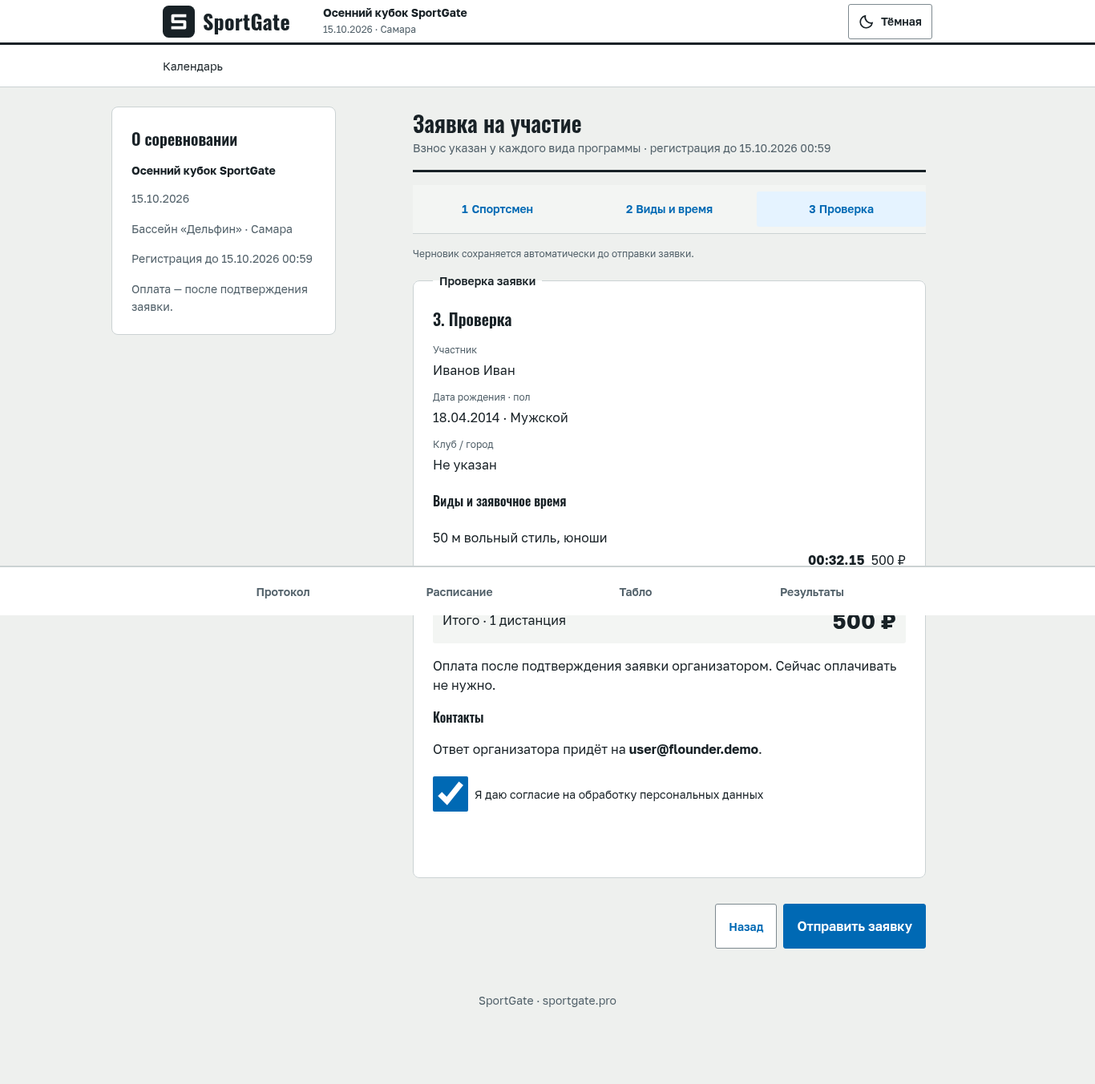
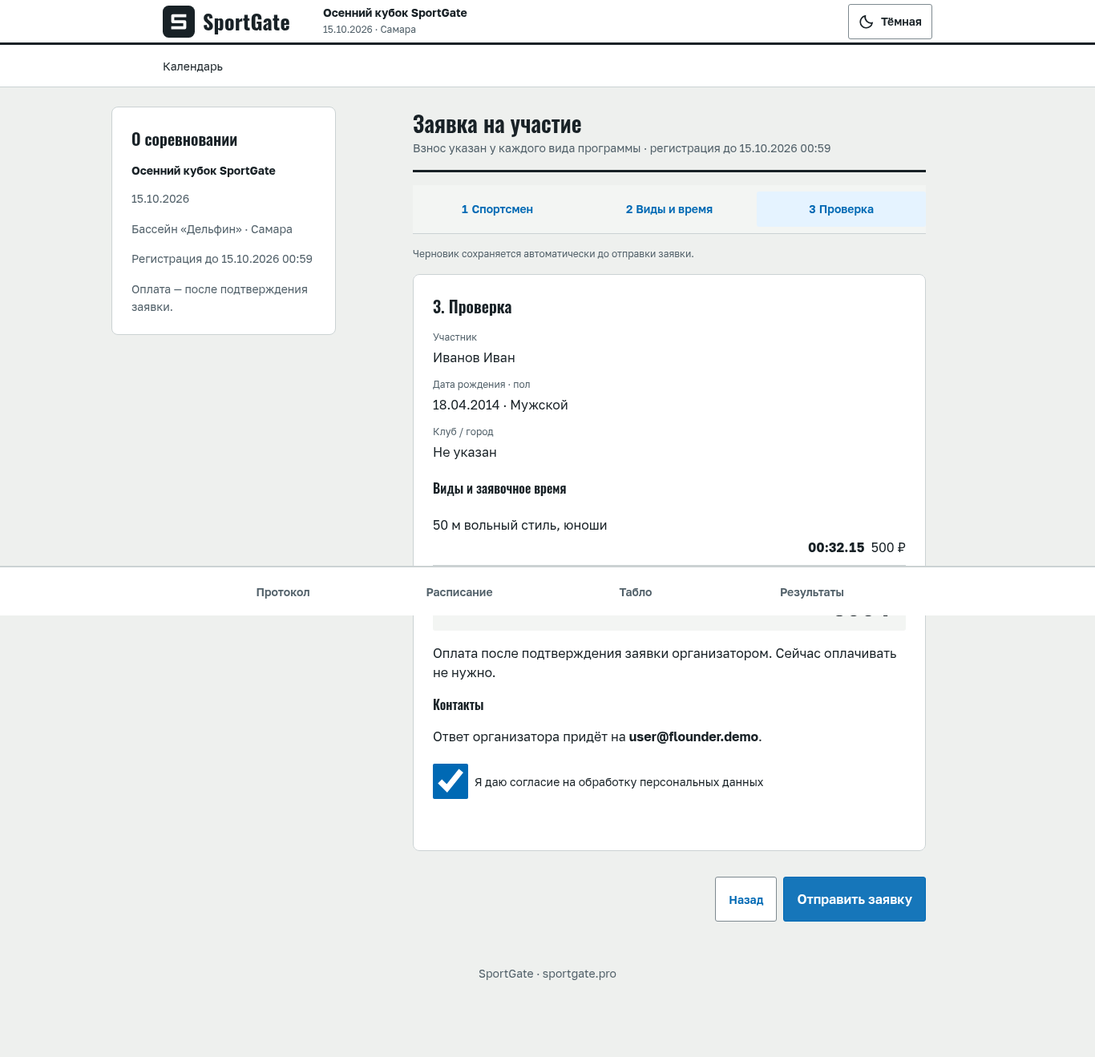
fix(public): address registration review and update submission scenarios

diff --git a/sport-platform/frontend/src/features/public/RegistrationPage.tsx b/sport-platform/frontend/src/features/public/RegistrationPage.tsx
@@ -26,6 +26,7 @@ const fieldNames: Record<string, string> = {
   gender: 'Пол', club: 'Клуб', disciplines: 'Виды программы', consent: 'Согласие',
 }
 const money = (value: number) => `${new Intl.NumberFormat('ru-RU').format(value)} ₽`
+const fee = (value: number) => value === 0 ? 'Бесплатно' : money(value)
 
 function isDisciplineFull(item: RegistrationDiscipline, profile: RegistrationProfile) {
   if (item.maxParticipants != null && (item.participantsCount ?? 0) >= item.maxParticipants) return true
@@ -85,6 +86,10 @@ function RegistrationEditor() {
   const currentErrors = state.data ? validateRegistration(profile, selected, consent, state.data, today) : {}
   const firstInvalid = Object.keys(currentErrors)[0]
   const total = disciplines.reduce((sum, item) => sum + item.entryFee, 0)
+  const metaParts = [
+    state.data ? (state.data.disciplines.some(item => item.entryFee > 0) ? 'Взнос указан у каждого вида программы' : 'Участие бесплатно') : '',
+    event.registrationCloseAt ? `регистрация до ${date(event.registrationCloseAt, event.venue?.timezone)} ${time(event.registrationCloseAt, event.venue?.timezone)}` : '',
+  ].filter(Boolean)
   const eventFull = state.data?.maxParticipants != null && (state.data.participantsCount ?? 0) >= state.data.maxParticipants
   const waitlisted = eventFull || disciplines.some(item => isDisciplineFull(item, profile))
   const back = <Button as={Link} variant="ghost" to={`/e/${encodeURIComponent(event.publicSlug)}`}>К соревнованию</Button>
@@ -92,7 +97,7 @@ function RegistrationEditor() {
   useEffect(() => {
     if (!draftKey || success) return
     // oxlint-disable-next-line react/set-state-in-effect -- Reflect external storage availability in the UI.
-    try { localStorage.setItem(draftKey, JSON.stringify({ ...draft, version: 1 })); setStorageError(false) }
+    try { localStorage.setItem(draftKey, JSON.stringify({ ...draft, version: 1, savedAt: Date.now() })); setStorageError(false) }
     catch { setStorageError(true) }
   }, [draft, draftKey, success])
 
@@ -159,8 +164,8 @@ function RegistrationEditor() {
   async function submit(submitEvent: FormEvent<HTMLFormElement>) {
     submitEvent.preventDefault()
     if (submitting || !state.data || !auth.session) return
-    if (Object.keys(currentErrors).length) { showValidation(currentErrors); return }
     if (step < 2) { next(); return }
+    if (Object.keys(currentErrors).length) { showValidation(currentErrors); return }
     setSubmitting(true)
     setCapacityError(false)
     setErrors({})
@@ -220,10 +225,7 @@ function RegistrationEditor() {
       <p>Оплата — после подтверждения заявки.</p>
     </aside>
     <section className={styles.card}>
-      <PageHeader title="Заявка на участие" meta={<>
-        {state.data && (state.data.disciplines.some(item => item.entryFee > 0) ? 'Взнос указан у каждого вида программы' : 'Участие бесплатно')}
-        {event.registrationCloseAt && <> · регистрация до {date(event.registrationCloseAt, event.venue?.timezone)} {time(event.registrationCloseAt, event.venue?.timezone)}</>}
-      </>} />
+      <PageHeader title="Заявка на участие" meta={metaParts.length ? metaParts.join(' · ') : undefined} />
       {state.loading && !state.data && <div role="status" className={styles.loading}>
         <p>Загружаем форму заявки…</p>{Array.from({ length: 6 }, (_, index) => <div key={index} className={styles.skeleton} aria-hidden="true" />)}
       </div>}
@@ -247,7 +249,7 @@ function RegistrationEditor() {
         {errorSummary}
         {eventFull && <Notice tone="warning"><span role="status">Мест нет, запись в лист ожидания. Организатор сообщит, когда освободится место.</span></Notice>}
         <fieldset hidden={step !== 0} disabled={submitting || profileLoading} className="fl-fieldset">
-          <legend>Участник</legend>
+          <legend className="fl-sr-only">Участник</legend>
           <h2 id="registration-step-0" tabIndex={-1}>1. Спортсмен</h2>
           <Button loading={profileLoading} title={profileLoading ? 'Загружаем данные спортсмена' : undefined} onClick={() => void fillOwnProfile()}>Это я</Button>
           <div className={styles.pair}>
@@ -276,7 +278,7 @@ function RegistrationEditor() {
           </div>
         </fieldset>
         <fieldset hidden={step !== 1} disabled={submitting || !profileReady} className="fl-fieldset" aria-describedby="registration-disciplines-hint">
-          <legend>Виды (до трёх)</legend>
+          <legend className="fl-sr-only">Виды (до трёх)</legend>
           <h2 id="registration-step-1" tabIndex={-1}>2. Виды и время</h2>
           <div id="registration-disciplines-hint">{profileReady ? <p>Выберите до трёх видов программы. Заявочное время — мм:сс.сс.</p> : <Notice tone="info">Укажите пол и дату рождения, чтобы увидеть доступные виды</Notice>}</div>
           <Button variant="ghost" aria-pressed={showAll} onClick={() => setShowAll(value => !value)}>Показать все виды</Button>
@@ -293,7 +295,7 @@ function RegistrationEditor() {
                 title={!allowed && !checked ? 'Не подходит по полу или году рождения' : undefined}
                 onClick={() => setDraft(previous => { const next = { ...previous.selected }; if (checked) delete next[item.id]; else next[item.id] = ''; return { ...previous, selected: next } })}>
                 <span><strong>{item.name}</strong> · {groupNames || 'Все возрастные группы'}</span>
-                <span className={styles.disciplineMeta}>{item.entryFee === 0 ? 'Бесплатно' : money(item.entryFee)} · {checked ? 'Выбрано' : 'Выбрать'}</span>
+                <span className={styles.disciplineMeta}>{fee(item.entryFee)} · {checked ? 'Выбрано' : 'Выбрать'}</span>
               </Button>
               {profileReady && isDisciplineFull(item, profile) && <StatusBadge kind="registration" code="WAITLISTED" />}
               {!allowed && <small>{profileReady ? 'Не подходит по полу или году рождения' : 'Сначала укажите пол и дату рождения'}</small>}
@@ -313,7 +315,7 @@ function RegistrationEditor() {
           {profileReady && !state.data.disciplines.some(item => eligible(item, profile)) && <EmptyState title="Подходящих видов программы нет" action={<Button onClick={() => goTo(0)}>Проверить данные спортсмена</Button>}><p>Проверьте пол и дату рождения или уточните программу у организатора.</p></EmptyState>}
         </fieldset>
         <fieldset hidden={step !== 2} disabled={submitting} className="fl-fieldset">
-          <legend>Проверка заявки</legend>
+          <legend className="fl-sr-only">Проверка заявки</legend>
           <h2 id="registration-step-2" tabIndex={-1}>3. Проверка</h2>
           <dl className={styles.review}>
             <dt>Участник</dt><dd>{[profile.lastName, profile.firstName, profile.middleName].filter(Boolean).join(' ') || 'Не указан'}</dd>
@@ -321,8 +323,8 @@ function RegistrationEditor() {
             <dt>Клуб / город</dt><dd>{profile.club || 'Не указан'}</dd>
           </dl>
           <h3>Виды и заявочное время</h3>
-          {disciplines.length ? <ul className={styles.reviewList}>{disciplines.map(item => <li key={item.id}><span>{item.name}</span><strong className={styles.numeric}>{selected[item.id] || 'Без времени (NT)'}</strong><span className={styles.numeric}>{money(item.entryFee)}</span></li>)}</ul> : <Notice tone="warning">Выберите хотя бы один вид программы на втором шаге.</Notice>}
-          <div className={`${styles.total} fl-summary-cell`}><span>Итого · {disciplines.length} {disciplines.length === 1 ? 'дистанция' : 'дистанции'}</span><strong className={styles.numeric}>{total ? money(total) : 'Бесплатно'}</strong></div>
+          {disciplines.length ? <ul className={styles.reviewList}>{disciplines.map(item => <li key={item.id}><span>{item.name}</span><strong className={styles.numeric}>{selected[item.id] || 'Без времени (NT)'}</strong><span className={styles.numeric}>{fee(item.entryFee)}</span></li>)}</ul> : <Notice tone="warning">Выберите хотя бы один вид программы на втором шаге.</Notice>}
+          <div className={`${styles.total} fl-summary-cell`}><span>Итого · {disciplines.length} {disciplines.length === 1 ? 'дистанция' : 'дистанции'}</span><strong className={styles.numeric}>{fee(total)}</strong></div>
           {total > 0 && <p>Оплата после подтверждения заявки организатором. Сейчас оплачивать не нужно.</p>}
           {waitlisted && <Notice tone="warning">Мест нет, заявка попадёт в лист ожидания. Оплата будет доступна после подтверждения организатором.</Notice>}
           <h3>Контакты</h3><p>Ответ организатора придёт на <strong>{email || 'email вашего аккаунта'}</strong>.</p>
@@ -332,8 +334,8 @@ function RegistrationEditor() {
         <div className={styles.sticky}>
           <div className={styles.actions}>
             {step > 0 && <Button disabled={submitting} title={submitting ? 'Заявка отправляется' : undefined} onClick={() => goTo(step - 1)}>Назад</Button>}
-            {step < 2 ? <Button variant="primary" size="lg" onClick={next}>Далее: {stepNames[step + 1]}</Button>
-              : <Button variant="primary" size="lg" type="submit" loading={submitting} disabled={!!firstInvalid}
+            {step < 2 ? <Button key="next" variant="primary" size="lg" onClick={next}>Далее: {stepNames[step + 1]}</Button>
+              : <Button key="submit" variant="primary" size="lg" type="submit" loading={submitting} disabled={!!firstInvalid}
                 title={firstInvalid ? currentErrors[firstInvalid] : submitting ? 'Заявка отправляется' : undefined} aria-describedby={firstInvalid ? 'registration-disabled-reason' : undefined}>Отправить заявку</Button>}
           </div>
           {step === 2 && firstInvalid && <small id="registration-disabled-reason">{currentErrors[firstInvalid]}</small>}

diff --git a/sport-platform/frontend/src/features/public/RegistrationPage.test.tsx b/sport-platform/frontend/src/features/public/RegistrationPage.test.tsx
@@ -1,16 +1,18 @@
-import { configure, fireEvent, render, screen, waitFor } from '@testing-library/react'
+import { configure, fireEvent, render, screen, waitFor, within } from '@testing-library/react'
 import { MemoryRouter } from 'react-router'
 import { afterAll, beforeEach, describe, expect, it, vi } from 'vitest'
 import { PublicRegistrationPage } from './RegistrationPage'
 import { publicApi, PublicApiError } from '../../api/public.api'
 import type { RegistrationForm } from './public.types'
+import { emptyRegistrationDraft, readRegistrationDraft } from './registrationFields'
 
 // Multi-step interactions also run on shared CI workers.
 vi.setConfig({ testTimeout: 30_000 })
 configure({ asyncUtilTimeout: 10_000 })
 afterAll(() => configure({ asyncUtilTimeout: 1_000 }))
 
-const { form, auth, dataState } = vi.hoisted(() => ({
+const { form, auth, dataState, eventData } = vi.hoisted(() => ({
+  eventData: { publicSlug: 'qa03', registrationOpen: true, registrationCloseAt: null as string | null },
   auth: { userId: 'test-user', isAuthenticated: true, isParticipant: true, session: { accessToken: 'test-token' } },
   dataState: { loading: false, error: undefined as string | undefined, errorStatus: undefined as number | undefined },
   form: {
@@ -26,7 +28,7 @@ vi.mock('../../app/providers/AuthProvider', () => ({
 }))
 vi.mock('./publicContext', async (importOriginal) => ({
   ...await importOriginal<typeof import('./publicContext')>(),
-  usePublicEvent: () => ({ publicSlug: 'qa03', registrationOpen: true }),
+  usePublicEvent: () => eventData,
 }))
 vi.mock('./usePublicData', () => ({ usePublicData: () => ({ data: dataState.loading || dataState.error ? undefined : form, ...dataState, retry: vi.fn() }) }))
 
@@ -48,6 +50,7 @@ function setup(count = 1, fillTimes = true) {
 describe('QA03 public registration submission', () => {
   beforeEach(() => {
     localStorage.clear()
+    eventData.registrationCloseAt = null
     auth.isAuthenticated = true
     auth.isParticipant = true
     dataState.loading = false
@@ -135,6 +138,7 @@ describe('QA03 public registration submission', () => {
 describe('D04-2g registration wizard', () => {
   beforeEach(() => {
     localStorage.clear()
+    eventData.registrationCloseAt = null
     auth.isAuthenticated = true
     auth.isParticipant = true
     dataState.loading = false
@@ -154,6 +158,42 @@ describe('D04-2g registration wizard', () => {
     expect(screen.getByLabelText('Фамилия')).toHaveFocus()
     expect(screen.getByLabelText('Фамилия')).toHaveAttribute('aria-invalid', 'true')
     expect(publicApi.register).not.toHaveBeenCalled()
+  })
+
+  it('validates only the current step when the form is submitted with Enter', () => {
+    const { container } = render(<MemoryRouter><PublicRegistrationPage /></MemoryRouter>)
+    fireEvent.change(screen.getByLabelText('Фамилия'), { target: { value: 'Иванов' } })
+    fireEvent.change(screen.getByLabelText('Имя'), { target: { value: 'Иван' } })
+    fireEvent.change(screen.getByLabelText('Дата рождения'), { target: { value: '2014-04-18' } })
+    fireEvent.change(screen.getByLabelText('Пол'), { target: { value: 'M' } })
+    fireEvent.submit(container.querySelector('form')!)
+    expect(screen.getByRole('heading', { name: '2. Виды и время' })).toBeVisible()
+    expect(screen.queryByRole('alert')).not.toBeInTheDocument()
+    fireEvent.submit(container.querySelector('form')!)
+    expect(screen.getByRole('alert')).toHaveTextContent('Выберите хотя бы один вид программы.')
+    expect(screen.getByRole('alert')).not.toHaveTextContent('Необходимо согласие')
+    expect(publicApi.register).not.toHaveBeenCalled()
+  })
+
+  it('does not render empty metadata or a leading separator before the deadline', () => {
+    dataState.loading = true
+    const { container, rerender } = render(<MemoryRouter><PublicRegistrationPage /></MemoryRouter>)
+    expect(container.querySelector('.fl-meta')).not.toBeInTheDocument()
+    eventData.registrationCloseAt = '2026-10-31T12:00:00Z'
+    rerender(<MemoryRouter><PublicRegistrationPage /></MemoryRouter>)
+    expect(container.querySelector('.fl-meta')).toHaveTextContent(/^регистрация до /)
+    expect(container.querySelector('.fl-meta')).not.toHaveTextContent('·')
+    dataState.loading = false
+    rerender(<MemoryRouter><PublicRegistrationPage /></MemoryRouter>)
+    expect(container.querySelector('.fl-meta')).toHaveTextContent(/^Взнос указан у каждого вида программы · регистрация до /)
+  })
+
+  it('labels a zero fee as free in both the selected item and total', () => {
+    form.disciplines.forEach(item => { item.entryFee = 0 })
+    setup()
+    const review = within(screen.getByRole('group', { name: 'Проверка заявки' }))
+    expect(review.queryByText('0 ₽')).not.toBeInTheDocument()
+    expect(review.getAllByText('Бесплатно')).toHaveLength(2)
   })
 
   it('keeps the selected card and time when going back and restores the step after remount', () => {
@@ -210,6 +250,18 @@ describe('D04-2g registration wizard', () => {
     expect(screen.queryByRole('heading', { name: 'Заявка отправлена' })).not.toBeInTheDocument()
   })
 
+  it('requires an explicit send after returning to review with consent already checked', async () => {
+    setup()
+    fireEvent.click(screen.getByRole('button', { name: 'Назад' }))
+    fireEvent.click(screen.getByRole('button', { name: 'Далее: Проверка' }))
+    expect(screen.getByRole('heading', { name: '3. Проверка' })).toBeVisible()
+    expect(screen.getByLabelText('Я даю согласие на обработку персональных данных')).toBeChecked()
+    expect(publicApi.register).not.toHaveBeenCalled()
+    fireEvent.click(screen.getByRole('button', { name: 'Отправить заявку' }))
+    await waitFor(() => expect(publicApi.register).toHaveBeenCalledTimes(1))
+    await screen.findByText('Заявка отправлена')
+  })
+
   it('prevents a second request while submission is pending', async () => {
     let resolve!: (value: unknown) => void
     vi.mocked(publicApi.register).mockImplementation(() => new Promise(done => { resolve = done }))
@@ -246,5 +298,29 @@ describe('D04-2g registration wizard', () => {
     render(<MemoryRouter><PublicRegistrationPage /></MemoryRouter>)
     expect(screen.getByRole('link', { name: 'Войти' })).toHaveAttribute('href', '/login?next=%2Fe%2Fqa03%2Fregister')
     expect(screen.queryByLabelText('Фамилия')).not.toBeInTheDocument()
+  })
+})
+
+
+describe('D04-2g draft lifetime', () => {
+  const key = 'sportgate.registration.qa03.test-user'
+  const now = Date.UTC(2026, 9, 24, 12)
+  const week = 7 * 24 * 60 * 60 * 1000
+
+  beforeEach(() => {
+    localStorage.clear()
+    vi.spyOn(Date, 'now').mockReturnValue(now)
+  })
+
+  it.each([undefined, now - week - 1])('discards a draft with missing or expired savedAt (%s)', (savedAt) => {
+    localStorage.setItem(key, JSON.stringify({ ...emptyRegistrationDraft(), version: 1, savedAt,
+      profile: { ...emptyRegistrationDraft().profile, lastName: 'Иванова' }, step: 2 }))
+    expect(readRegistrationDraft(key)).toEqual(emptyRegistrationDraft())
+  })
+
+  it('restores a draft up to and including the seven-day boundary', () => {
+    const draft = { ...emptyRegistrationDraft(), profile: { ...emptyRegistrationDraft().profile, lastName: 'Иванова' }, step: 2 }
+    localStorage.setItem(key, JSON.stringify({ ...draft, version: 1, savedAt: now - week }))
+    expect(readRegistrationDraft(key)).toEqual(draft)
   })
 })

diff --git a/sport-platform/frontend/src/features/public/RegistrationPage.module.css b/sport-platform/frontend/src/features/public/RegistrationPage.module.css
@@ -12,19 +12,19 @@
 .form :is(input, select, button) { scroll-margin-block-start: calc(var(--header-h) + var(--space-4)); scroll-margin-block-end: calc(var(--control-h-lg) + var(--control-h) + var(--space-12)); }
 .form input[type=date] { display: block; max-width: 100%; }
 .form :global(.fl-field) { gap: var(--space-2); align-content: start; }
-.form .fieldError { min-height: calc(var(--text-xs) * var(--line-height-body) * 2); color: var(--color-danger); font-size: var(--text-xs); line-height: var(--line-height-body); font-weight: 400; }
+.form .fieldError { min-height: calc(var(--text-xs) * var(--line-height-body)); color: var(--color-danger); font-size: var(--text-xs); line-height: var(--line-height-body); font-weight: 400; }
 .pair { display: grid; gap: var(--space-4); min-width: 0; }
 .optional, .draft, .discipline small, .sticky small { color: var(--color-text-muted); font-size: var(--text-xs); font-weight: 400; }
 .form .wizard { display: grid; grid-template-columns: repeat(3, minmax(0, 1fr)); gap: var(--space-1); padding: var(--space-2) 0; border-bottom: 1px solid var(--border-subtle); }
 .wizard li { min-width: 0; }
-.wizard :global(.fl-btn) { width: 100%; min-height: var(--control-h); padding: var(--space-2) var(--space-1); white-space: normal; text-align: left; font-size: var(--text-xs); }
+.wizard :global(.fl-btn) { width: 100%; min-height: var(--control-h); padding: var(--space-2) var(--space-1); white-space: normal; text-align: left; font-size: var(--text-sm); }
 .wizard :global(.fl-btn-label) { display: flex; align-items: center; gap: var(--space-1); }
 .wizard [aria-current] :global(.fl-btn) { background: var(--surface-3); color: var(--color-primary); }
 .stepNumber { font-variant-numeric: var(--numeric-variant); }
 .discipline { display: grid; gap: var(--space-2); padding: var(--space-3); border: 1px solid var(--border-subtle); border-radius: var(--radius-md); min-width: 0; }
 .discipline[data-selected=true] { border-color: var(--color-primary); background: var(--surface-3); }
 .discipline .disciplineChoice { width: 100%; min-width: 0; min-height: var(--control-h-lg); padding: var(--space-2); text-align: left; white-space: normal; color: var(--color-text); }
-.disciplineChoice :global(.fl-btn-label) { display: grid; gap: var(--space-2); width: 100%; }
+.disciplineChoice :global(.fl-btn-label) { text-align: left; justify-items: start; display: grid; gap: var(--space-2); width: 100%; }
 .disciplineMeta { display: block; font-size: var(--text-sm); font-weight: 400; font-variant-numeric: var(--numeric-variant); }
 .seed { border-top: 1px solid var(--border-subtle); padding-block-start: var(--space-4); }
 .numeric { font-variant-numeric: var(--numeric-variant); text-align: right; }

diff --git a/sport-platform/frontend/e2e/public.spec.ts b/sport-platform/frontend/e2e/public.spec.ts
@@ -141,16 +141,21 @@ test('anonymous registration returns after login; authenticated form validates p
   await page.getByLabel('Имя', { exact: true }).fill('Иван')
   await page.getByLabel('Дата рождения').fill('2012-06-15')
   await page.getByLabel('Пол', { exact: true }).selectOption('M')
-  await page
-    .getByRole('checkbox', { name: /50 м вольный стиль, юноши/ })
-    .check()
-  await page.getByLabel('Заявочное время').fill('')
-  await page.getByLabel('Заявочное время').pressSequentially('32.15')
-  await expect(page.getByLabel('Заявочное время')).toHaveValue('00:32.15')
+  await page.getByRole('button', { name: 'Далее: Виды и время', exact: true }).click()
+  const choice = page.getByRole('button', { name: /50 м вольный стиль, юноши/ })
+  await choice.click()
+  await expect(choice).toHaveAttribute('aria-pressed', 'true')
+  await page.getByLabel(/Заявочное время/).fill('')
+  await page.getByLabel(/Заявочное время/).pressSequentially('32.15')
+  await expect(page.getByLabel(/Заявочное время/)).toHaveValue('00:32.15')
+  await page.getByRole('button', { name: 'Далее: Проверка', exact: true }).click()
   await page.getByRole('checkbox', { name: /Я даю согласие/ }).check()
   await page.getByRole('button', { name: 'Отправить заявку' }).click()
-  await expect(page.getByText('Этот вид не подходит спортсмену.')).toBeVisible()
+  await expect(page.getByText('Этот вид не подходит спортсмену.', { exact: true })).toBeVisible()
+  await page.getByRole('button', { name: '1 Спортсмен', exact: true }).click()
   await page.getByLabel('Фамилия', { exact: true }).fill('Иванов')
+  await page.getByRole('button', { name: 'Далее: Виды и время', exact: true }).click()
+  await page.getByRole('button', { name: 'Далее: Проверка', exact: true }).click()
   await page.getByRole('button', { name: 'Отправить заявку' }).click()
   await expect(
     page.getByRole('heading', { name: 'Заявка отправлена' }),

diff --git a/sport-platform/frontend/e2e/qa05-demo.spec.ts b/sport-platform/frontend/e2e/qa05-demo.spec.ts
@@ -144,11 +144,13 @@ test('QA05: seven-step demo with a real backend and demo seed', async ({ browser
       await parent.getByLabel('Дата рождения').fill('2014-04-18')
       await parent.getByRole('combobox', { name: /^Пол/ }).selectOption('M')
       await parent.getByLabel('Клуб / город').fill('Дельфин')
+      await parent.getByRole('button', { name: 'Далее: Виды и время', exact: true }).click()
       for (const [distance, time] of [[50, '00:47.20'], [100, '01:49.50']] as const) {
-        const choice = parent.getByRole('checkbox', { name: new RegExp(`^${distance} м.*юноши`) })
-        await choice.check()
-        await choice.locator('..').locator('..').getByRole('textbox').fill(time)
+        const choice = parent.getByRole('button', { name: new RegExp(`^${distance} м.*юноши`) })
+        await choice.click()
+        await parent.getByLabel(new RegExp(`^Заявочное время · ${distance} м`)).fill(time)
       }
+      await parent.getByRole('button', { name: 'Далее: Проверка', exact: true }).click()
       await parent.getByRole('checkbox', { name: /Я даю согласие/ }).check()
       await screenshots(parent, '03-parent-form')
       const responsePromise = parent.waitForResponse(r => r.url().endsWith('/registrations') && r.request().method() === 'POST')

diff --git a/sport-platform/frontend/e2e/qa06-d03-register.spec.ts b/sport-platform/frontend/e2e/qa06-d03-register.spec.ts
@@ -124,11 +124,13 @@ for (const width of [375, 768, 1366]) test(`UX-17 registration layout, errors an
   const errorId = (await seed.getAttribute('aria-describedby'))!.split(' ').find(id => id.startsWith('registration-error-'))!
   const seedError = page.locator(`[id="${errorId}"]`)
   const reservedHeight = (await seedError.boundingBox())!.height
+  const lineHeight = await seedError.evaluate(element => Number.parseFloat(getComputedStyle(element).lineHeight))
+  expect(reservedHeight).toBeCloseTo(lineHeight, 1)
   await page.getByRole('button', { name: 'Далее: Проверка', exact: true }).click()
   await expect(seed).toHaveAttribute('aria-invalid', 'true')
   await expect(seedError).toHaveText('Укажите заявочное время в формате мм:сс.сс.')
   await expect(seed).toBeFocused()
-  expect((await seedError.boundingBox())!.height).toBe(reservedHeight)
+  expect((await seedError.boundingBox())!.height).toBeGreaterThanOrEqual(reservedHeight)
   await seed.fill('006000')
   await page.getByRole('button', { name: 'Далее: Проверка', exact: true }).click()
   await expect(seedError).toHaveText('Введите ненулевое время в формате мм:сс.сс (секунды 00–59).')

diff --git a/sport-platform/frontend/src/features/public/registrationFields.ts b/sport-platform/frontend/src/features/public/registrationFields.ts
@@ -61,6 +61,8 @@ export function readRegistrationDraft(key: string): RegistrationDraft {
   try {
     const saved = JSON.parse(localStorage.getItem(key) ?? 'null')
     if (!saved || saved.version !== 1 || !saved.profile || !saved.selected) return empty
+    if (typeof saved.savedAt !== 'number' || !Number.isFinite(saved.savedAt)
+      || Date.now() - saved.savedAt > 7 * 24 * 60 * 60 * 1000) return empty
     for (const field of ['lastName', 'firstName', 'middleName', 'birthDate', 'gender', 'club'] as const) {
       if (typeof saved.profile[field] !== 'string') return empty
     }
